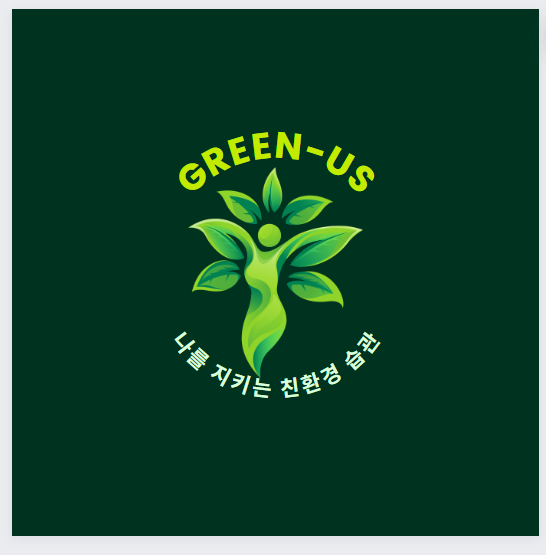
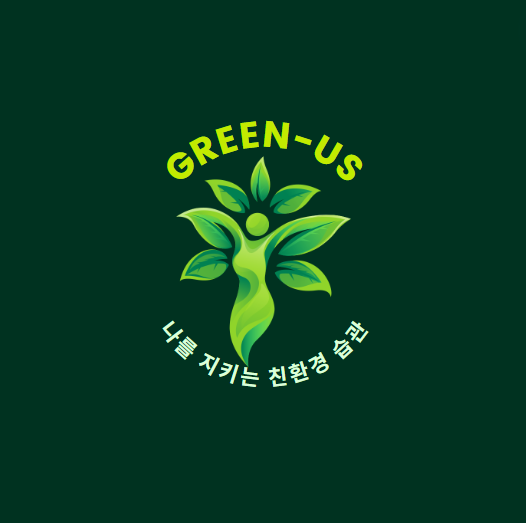
웹페이지 완성 및 공지사항 불러오기

Changed region(s): [[0.0, 0.0, 1.0, 1.0], [0.3042, 0.2141, 0.6996, 0.7648]]

diff --git a/backend/src/main/resources/templates/noticeList.html b/backend/src/main/resources/templates/noticeList.html
@@ -19,7 +19,7 @@
             box-sizing: border-box;
         }
         .navbar {
-            background: #4CAF50;
+            background: #003220;
             color: #fff;
             padding: 1rem;
             text-align: center;
@@ -51,7 +51,7 @@
             text-align: left;
         }
         .notice-table th {
-            background-color: #4CAF50;
+            background-color: #003220;
             color: white;
         }
         .notice-table tr:nth-child(even) {
@@ -61,7 +61,7 @@
             background-color: #f1f1f1;
         }
         .btn {
-            background-color: #4CAF50;
+            background-color: #003220;
             border: none;
             color: white;
             padding: 10px 20px;
@@ -77,13 +77,18 @@
             background-color: #f44336;
         }
         .btn-update {
-            background-color: #22cdf1;
+            background-color: #159805;
         }
     </style>
 </head>
 <body>
 <nav class="navbar">
     <div class="navbar-brand"><a class="nav-link" href="/admins/home">관리 페이지</a></div>
+    <ul class="navbar-nav">
+        <li class="nav-item"><a class="nav-link" href="/users/list">회원 관리</a></li>
+        <li class="nav-item"><a class="nav-link" href="/greening/list">그리닝 관리</a></li>
+        <li class="nav-item"><a class="nav-link" href="/notice/listPage">공지사항 관리</a></li>
+    </ul>
 </nav>
 
 <div class="container">
@@ -92,16 +97,16 @@
         <table class="notice-table">
             <thead>
             <tr>
-                <th>ID</th>
+                <th>회원번호</th>
                 <th>제목</th>
                 <th>내용</th>
                 <th>날짜</th>
-                <th>액션</th>
+                <th>삭제 / 수정</th>
             </tr>
             </thead>
             <tbody>
             <tr th:each="notice : ${notices}">
-                <td th:text="${notice.noticeSeq}"></td>
+                <td th:text="${notice.noticeSeq}" style="text-align: center"></td>
                 <td th:text="${notice.noticeTitle}"></td>
                 <td th:text="${notice.noticeContent}"></td>
                 <td th:text="${notice.noticeDate}"></td>

diff --git a/backend/src/main/resources/templates/noticeEdit.html b/backend/src/main/resources/templates/noticeEdit.html
@@ -19,7 +19,7 @@
             box-sizing: border-box;
         }
         .navbar {
-            background: #4CAF50;
+            background: #003220;
             color: #fff;
             padding: 1rem;
             text-align: center;
@@ -71,9 +71,14 @@
     </style>
 </head>
 <body>
-<div class="navbar">
+<nav class="navbar">
     <div class="navbar-brand"><a class="nav-link" href="/admins/home">관리 페이지</a></div>
-</div>
+    <ul class="navbar-nav">
+        <li class="nav-item"><a class="nav-link" href="/users/list">회원 관리</a></li>
+        <li class="nav-item"><a class="nav-link" href="/greening/list">그리닝 관리</a></li>
+        <li class="nav-item"><a class="nav-link" href="/notice/listPage">공지사항 관리</a></li>
+    </ul>
+</nav>
 
 <div class="container">
     <div class="content">

diff --git a/backend/src/main/resources/static/css/green-theme.css b/backend/src/main/resources/static/css/green-theme.css
@@ -7,7 +7,7 @@ body {
 }
 
 .navbar {
-    background-color: #28a745;
+    background-color: #003220;
     color: white;
     padding: 1rem;
     display: flex;
@@ -64,7 +64,7 @@ body {
 }
 
 .card-header {
-    background-color: #28a745;
+    background-color: #003220;
     color: white;
     padding: 10px;
     font-size: 1.25rem;
@@ -96,7 +96,7 @@ body {
 .jumbotron {
     background-color: #e9ecef;
     padding: 2rem 2rem;
-    border-left: 5px solid #28a745;
+    border-left: 5px solid #003220;
     border-radius: 5px;
 }
 

diff --git a/backend/src/main/resources/templates/login.html b/backend/src/main/resources/templates/login.html
@@ -6,9 +6,10 @@
     <title>Login</title>
     <link rel="stylesheet" href="/css/styles.css">
 </head>
+<img src="/images/login-image.jpg" alt="Main Image" class="main-image">
 <body>
 <div class="login-container">
-    <h2>Admin Login</h2>
+    <h2>관리자 로그인</h2>
     <form id="loginForm">
         <input type="text" id="adminId" name="adminId" placeholder="Admin ID" required>
         <input type="password" id="adminPwd" name="adminPwd" placeholder="Password" required>

diff --git a/backend/src/main/resources/static/css/styles.css b/backend/src/main/resources/static/css/styles.css
@@ -4,7 +4,7 @@ body {
     justify-content: center;
     align-items: center;
     height: 100vh;
-    background: linear-gradient(to right, #a8e063, #56ab2f);
+    background: linear-gradient(to right, #003220, #003220);
     margin: 0;
 }
 
@@ -63,4 +63,9 @@ body {
 .message {
     color: #d9534f;
     margin-top: 1rem;
+}
+
+.login-image {
+    width: auto;
+    height: auto;
 }

diff --git a/backend/src/main/resources/templates/home.html b/backend/src/main/resources/templates/home.html
@@ -33,7 +33,7 @@
         <div class="card">
             <div class="card-header">관리자 정보</div>
             <div class="card-body">
-                <p>이름: Admin</p>
+                <p>이름: 관리자</p>
                 <a href="/admins/logout" class="btn">로그아웃</a>
             </div>
         </div>

diff --git a/backend/src/main/resources/templates/noticeAdd.html b/backend/src/main/resources/templates/noticeAdd.html
@@ -19,7 +19,7 @@
             box-sizing: border-box;
         }
         .navbar {
-            background: #4CAF50;
+            background: #003220;
             color: #fff;
             padding: 1rem;
             text-align: center;
